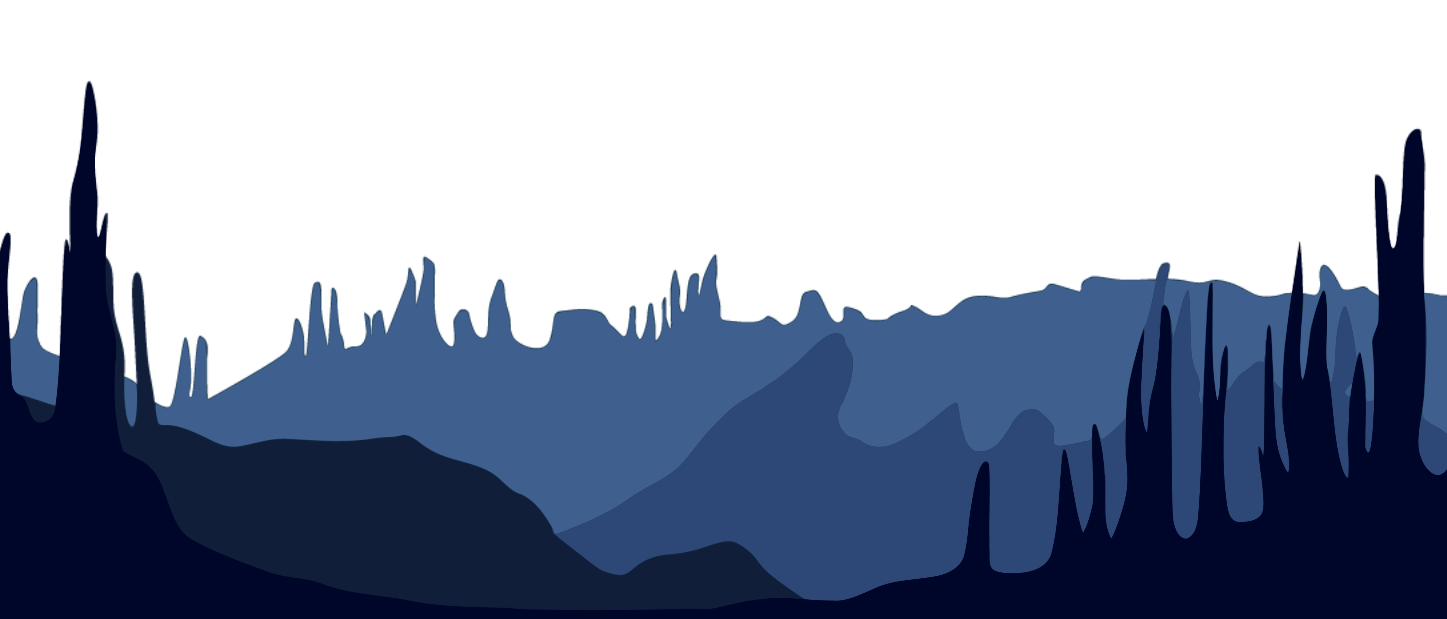
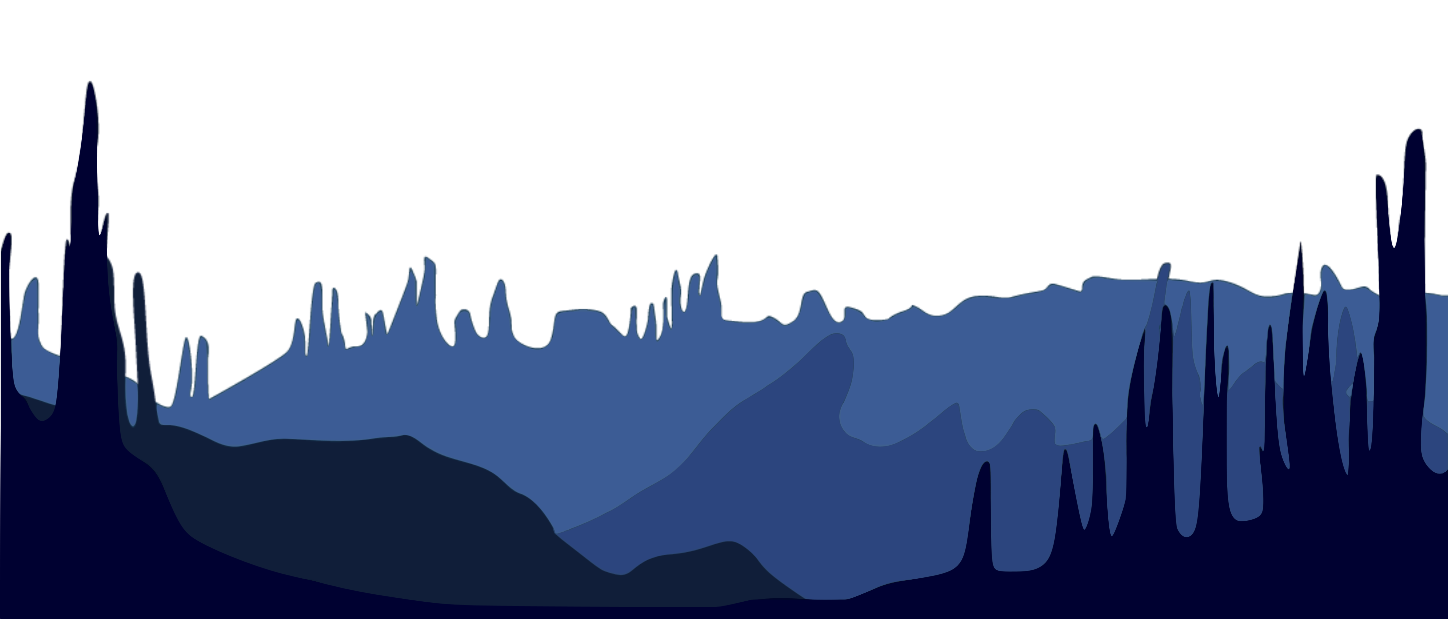
Use gif instead of png for mountains, redo colors of cave

diff --git a/styles.css b/styles.css
@@ -38,7 +38,7 @@ body {
 }
 
 .dark-blue {
-    background-color: #00022c;
+    background-color: #000131;
     width: 100%;
     flex-grow: 1;
 }
@@ -130,7 +130,7 @@ body {
 
 .project {
     color: #d0def7;
-    background-color: #00022c;
+    background-color: #000131;
     height: 60px;
     width: 280px;
     margin-bottom: 40px;
@@ -151,7 +151,7 @@ body {
 .buffer-bar {
     width: 100%;
     height: 50px;
-    background-color: #00022c;
+    background-color: #000131;
 }
 
 .links-container {
@@ -191,7 +191,7 @@ a {
 .bottom-bar {
     width: 100%;
     height: 80px;
-    background-color: #00022c;
+    background-color: #000131;
 }
 
 @media (max-width: 800px) {

diff --git a/index.html b/index.html
@@ -11,7 +11,7 @@
 
     <div class="background-container">
         <div class="light-blue"></div>
-        <img class="mountains-img" src="images/blue-mountains.png">
+        <img class="mountains-img" src="images/blue-mountains.gif">
         <div class="dark-blue"></div>
 
         <div class="title-container">
